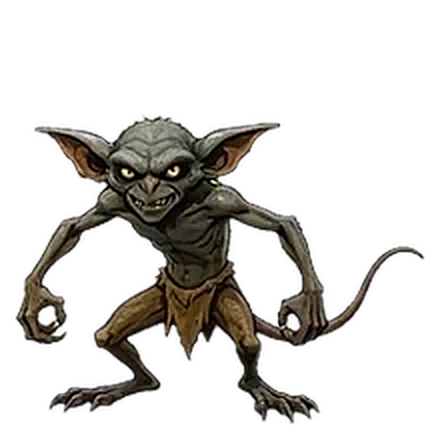
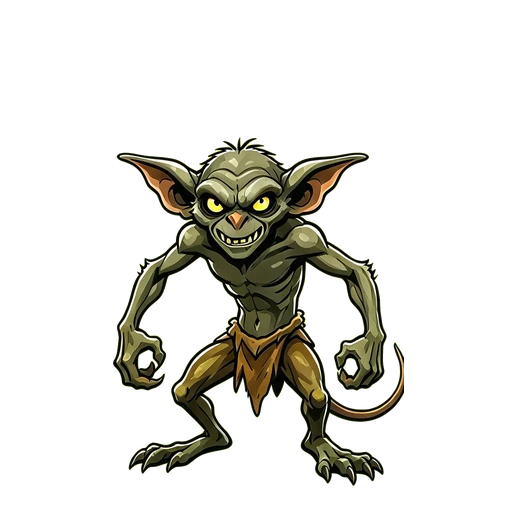
Gobelin des cavernes : trois poses (normale, attaque, coup reçu) et changement de pose en combat

Changed region(s): [[0.0295, 0.2659, 0.975, 0.975]]

diff --git a/docs/TECHNIQUE.md b/docs/TECHNIQUE.md
@@ -147,6 +147,7 @@ Un son propre à chaque type de piège, joué seulement quand le piège se décl
 Casse-têtes de piège (`scripts/ui/trap_puzzle_*.gd`, base `TrapPuzzle`). **Énigmes** : `TrapPuzzleRiddle.COUNT` (120) énigmes, chacune = 5 clés de langue `ui.trap_puzzle.riddle_<n>_{q,a,b,c,d}` (question, bonne réponse en `a`, trois leurres ; les réponses sont mélangées à l'affichage) ; l'ordre des numéros est mélangé par le flux `trap` de `GameRng` (rejeu identique) et chaque fenêtre ne repose jamais deux fois la même. Pour en ajouter : augmenter `COUNT` et créer les cinq clés FR et EN ; `tools/check_lang.py` vérifie qu'aucune énigme n'est incomplète ni à réponses en double. **Cordes** (`TrapPuzzleWires`) : même règle de jeu que les fils (`TrapRules.make_wires`, un seul coup de cisaille), dessin en cordes torsadées — `_dense` (un point tous les ~3 px), `_build` (traits obliques clairs/sombres régulièrement espacés = torons, quelques fibres), `_draw_rope` (ombre, âme sombre, fût coloré, torons, reflet), `_draw_ferrule` (bagues de laiton aux deux bouts) ; l'épaisseur (`_hw`) et l'ondulation s'adaptent à l'écart entre cordes (3 à 6 cordes) pour qu'elles ne se chevauchent jamais. La géométrie est calculée une fois (`begin`), une corde coupée calcule ses deux moitiés pendantes et ses bouts effilochés (`_make_halves`) au moment du coup de cisaille. Contrôle visuel : `shot_game.gd` (`steps=trapui kind=spikes methods=disarm puzzle=wires "acts=click:Trancher;wait:3;solve:bad;shot:b"`).
 
 Fin de combat : quand le dernier monstre meurt, `CombatController` (événement `monster_died`) garde la salle de combat affichée pendant son animation d'effondrement (`DEATH_ANIM_SEC`, 0,65 s, via `_draining` : `in_combat()` reste vrai et la partie n'est pas « au repos » pour les parties classées), puis émet `changed` pour que `Main._sync_stage` referme la salle, et seulement alors lance l'écran de victoire. Sans animation de monstres (réglage), aucune attente. Contrôle visuel : `tools/shot_death.gd` (monstre à 1 PV, images pendant et après la mort). Les chiffres, la réaction et la mort d'un monstre s'appliquent à l'**impact** du sort et non à la fin de son fondu : `CombatController._drain` attend `SpellFx3D.wait_hit` (un effet est « touché » quand tous ses projectiles `_fly` / `_projectile` sont arrivés, ou, sans projectile, quand son premier impact différé `_later` a joué, au plus tard `SpellFx3D.HIT_CAP` = 0,35 s après son départ) ; les actions suivantes et l'écran de victoire attendent toujours la fin complète de l'effet (`busy` / `wait_idle`). `tools/shot_death.tscn` mesure le délai coup → effondrement.
+Poses des monstres : `EntityLayer._start_react` (utilisée par `play` en exploration et `play_node` en salle de combat) échange, le temps de la réaction (`attack` 0,6 s, `hit` 0,55 s au minimum), le matériau du sprite contre celui de `assets/monsters/mNN_attack.webp` / `mNN_hit.webp` s'il existe (`_pose_material`, mis en cache dans `_mats`, clé `P|index|pose` ; `NN` = index de la planche, comme `NEW_MONSTER_IDS` / `REMAKE_MAP`) ; sans fichier de pose, seule la déformation existante joue. Le coup reçu teinte en plus le matériau de pose en rouge. Les boss n'ont pas de poses. Les trois images du gobelin viennent d'une planche à fond vert détourée (remplissage depuis les bords, alpha adouci et dé-teinte sur 3 px), remises à la même échelle et au même pied sur un canevas de 512 px.
 
 Micro-saccade à l'entrée en rage : deux causes corrigées. (1) `CombatStage._make_rage_aura` créait un `Shader.new()` par monstre : le shader chauffé au chargement n'était donc pas celui du combat, et le moteur recompilait à chaque première rage ; le shader est maintenant unique (`CombatStage._rage_shader()`, comme `StatusAura._fire_shader` et `SpellFxKit._shader`). Règle : tout shader utilisé par un effet de jeu est créé une seule fois (variable statique), jamais à l'apparition de l'effet. (2) Le préchauffage (`WarmUp.run`) tournait en MSAA désactivé et sans les effets d'environnement (occlusion ambiante, halo, étalonnage) alors que la vue de jeu les utilise : le moteur compile un pipeline par format d'image, donc le premier affichage de chaque effet recompilait en plein jeu. Le préchauffage reprend maintenant `Settings.msaa_mode()` et `VisualFx.apply_environment`. Les saccades de compilation ne se mesurent pas sans carte graphique (le rendu logiciel de `xvfb` est trop lent), `tools/check_rage_hitch.tscn` sert à les mesurer sur une vraie machine (`WARM=1` pour comparer avec le préchauffage).
 

diff --git a/README.md b/README.md
@@ -65,6 +65,7 @@ Le détail des sous-dossiers est dans la [documentation technique](docs/TECHNIQU
 - Héros solitaire : PV ×2 et dégâts +1/3 (attaques et sorts), héros affiché dans la deuxième fente du bandeau d'équipe. Défi de la semaine : donjon de 15 × 15 sur deux niveaux, héros parti avec une arme rare, équipement trouvé ou vendu par les marchands rare au minimum (épique, légendaire, mythique possibles), XP ×2, butin ×2,5 (modificateur « Butin de choix »), monstres un peu plus costauds (+25 % de PV, +15 % de dégâts). La fin de partie d'un défi (semaine, jour, mois hardcore) propose uniquement « Retour à l'accueil » (qui rouvre le mode en ligne si la partie en venait, sinon le menu général ; ni village, ni donjon plus difficile) ; les boutons de fin de partie sont empilés.
 - Tous les effets de sorts partent des cartes du groupe ou y arrivent, par-dessus l'interface ; le coup d'un monstre frappe la carte du héros touché ; l'attaque normale reste sur le monstre (option « Effets sur les cartes », essai).
 - Les statuts durent visuellement autant que leur effet : tant qu'un monstre est endormi (berceuse du ménestrel), empoisonné, brûlé, gelé, étourdi, ralenti ou affaibli, ses « Z », bulles, flammes, givre ou étoiles restent sur lui ; sur les héros, l'effet reste sur leur carte. Un boss a toujours une capacité spéciale.
+- Poses des monstres : un monstre peut avoir trois illustrations, normale, attaque et coup reçu (`assets/monsters/mNN.webp`, `mNN_attack.webp`, `mNN_hit.webp`). En combat, il prend la pose d'attaque quand il frappe et celle du coup reçu (en plus du flash rouge) quand un aventurier le touche, puis reprend sa pose normale. Premier monstre équipé : le gobelin des cavernes ; les autres monstres gardent leur unique illustration.
 - Sorts de dégâts du Druide rééquilibrés : moins de dégâts, recharge plus longue et statuts moins fréquents (les sorts modifiés par le créateur ne sont pas touchés).
 - Piège « sacrifier un objet » : on peut jeter dans le mécanisme n'importe quel objet du sac (potion, parchemin, arme, armure, bijou…), sauf les clés.
 - Piège « Effort collectif » : toujours proposé en plus des méthodes du piège. Jet de dé (Constitution du groupe), chaque héros vivant y laisse 35 % de son endurance max ; échec : tout le groupe est touché à dégâts réduits. Réglable dans l’administration.
